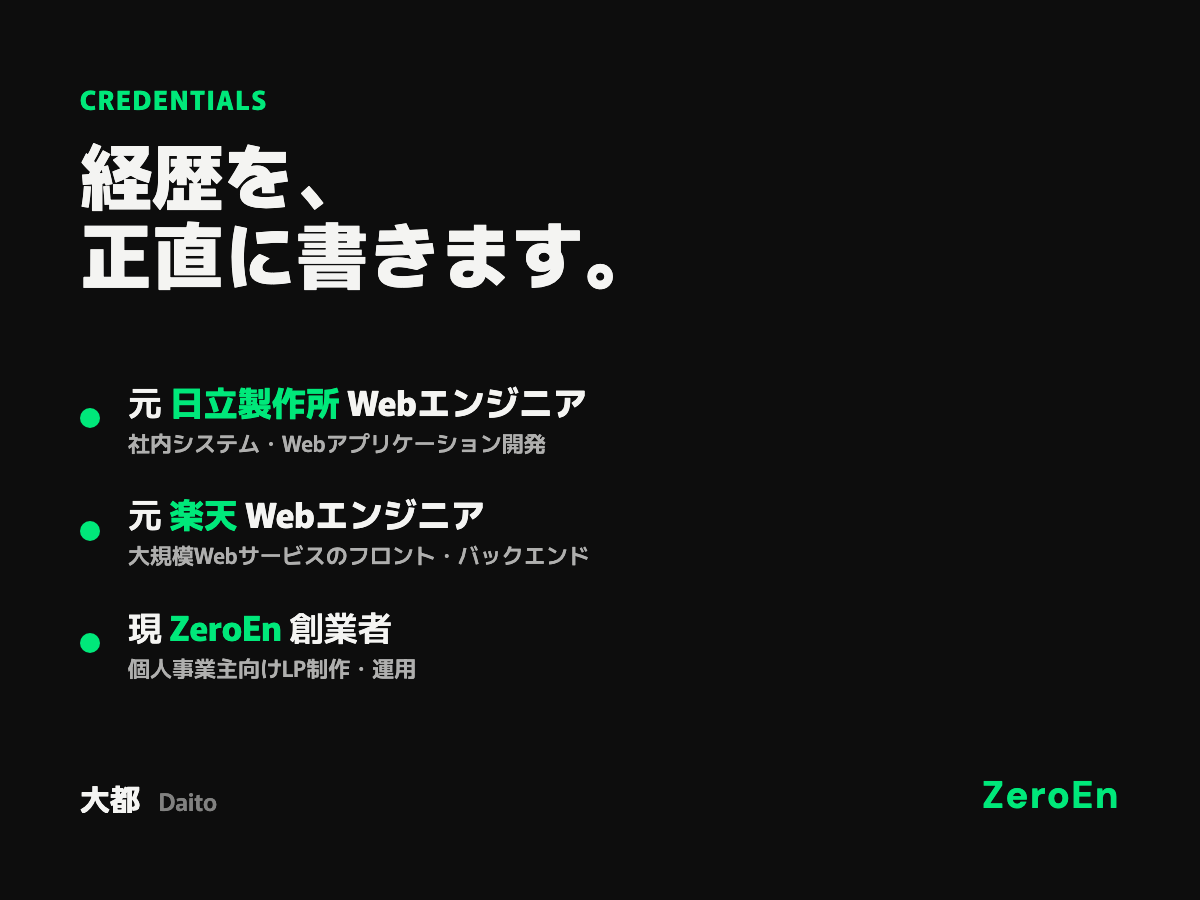
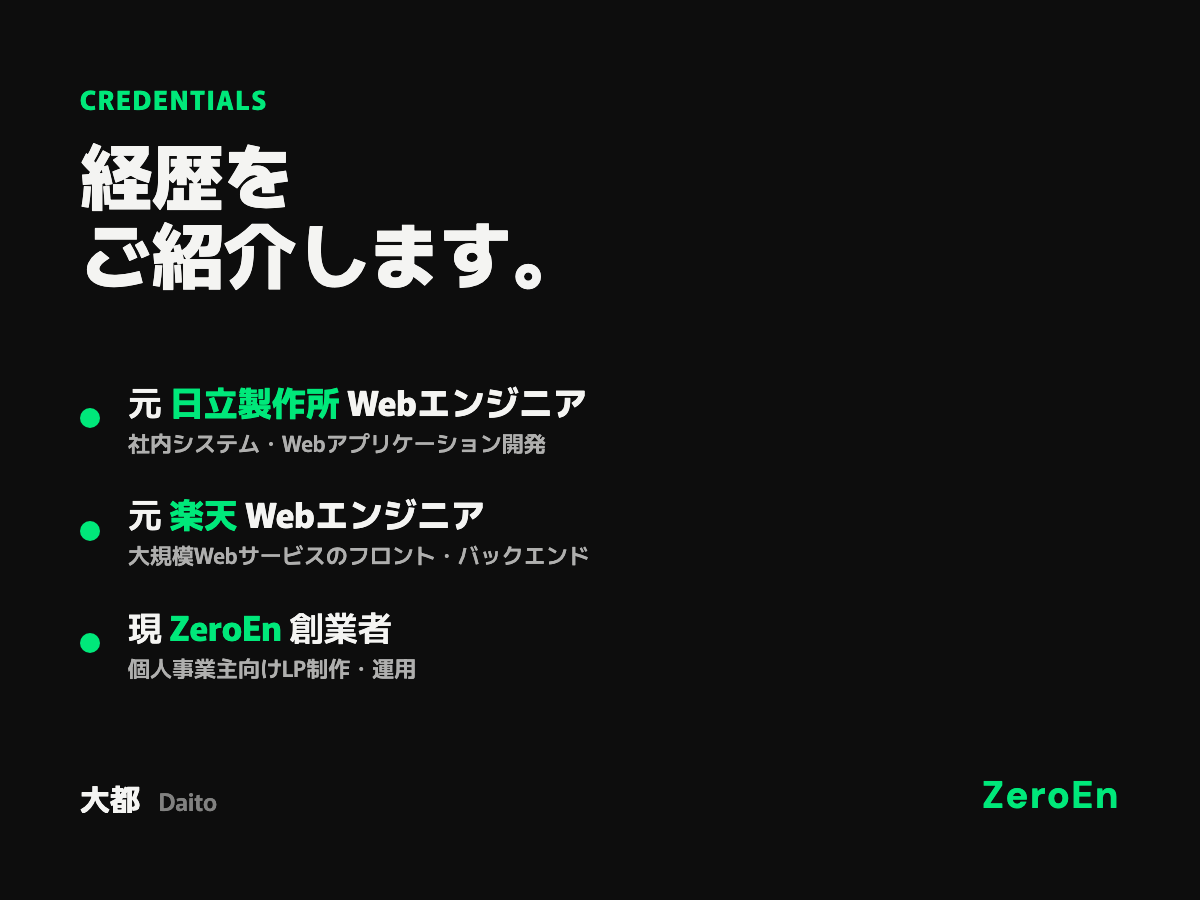
fix(marketing): soften image headlines — remove imperative/aggressive phrasing
Images 2,4,5,7,8 revised per mktg-copy review.

Changed region(s): [[0.0617, 0.1867, 0.5242, 0.3422]]

diff --git a/HQ/marketing/campaigns/2026-04-first-5/assets/listing-image-4-scope.html b/HQ/marketing/campaigns/2026-04-first-5/assets/listing-image-4-scope.html
@@ -24,8 +24,8 @@
 </style></head>
 <body>
   <div>
-    <div class="eyebrow">SCOPE — LOCKED AT KICKOFF</div>
-    <div class="h1">スコープを<br>はっきり書きます。</div>
+    <div class="eyebrow">SCOPE — WHAT'S INCLUDED</div>
+    <div class="h1">対応範囲に<br>ついて。</div>
   </div>
   <div class="grid">
     <div class="card">

diff --git a/HQ/marketing/campaigns/2026-04-first-5/assets/listing-image-8-zeroen.html b/HQ/marketing/campaigns/2026-04-first-5/assets/listing-image-8-zeroen.html
@@ -26,7 +26,7 @@
 <body>
   <div>
     <div class="eyebrow">PORTFOLIO — ZEROEN.DEV</div>
-    <div class="h1">自分のサイトも、<br>これです。</div>
+    <div class="h1">このサイト自体が<br>制作例です。</div>
   </div>
   <div class="browser">
     <div class="browser-bar">

diff --git a/HQ/marketing/campaigns/2026-04-first-5/assets/listing-image-5-portfolio.html b/HQ/marketing/campaigns/2026-04-first-5/assets/listing-image-5-portfolio.html
@@ -29,7 +29,7 @@
 <body>
   <div>
     <div class="eyebrow">PORTFOLIO</div>
-    <div class="h1">実物を見て、<br>判断してください。</div>
+    <div class="h1">実際の制作物を<br>ご覧ください。</div>
   </div>
   <div class="browser">
     <div class="browser-bar">

diff --git a/HQ/marketing/campaigns/2026-04-first-5/assets/listing-image-2-credentials.html b/HQ/marketing/campaigns/2026-04-first-5/assets/listing-image-2-credentials.html
@@ -23,7 +23,7 @@
 <body>
   <div>
     <div class="eyebrow">CREDENTIALS</div>
-    <div class="h1">経歴を、<br>正直に書きます。</div>
+    <div class="h1">経歴を<br>ご紹介します。</div>
   </div>
   <div class="timeline">
     <div class="row"><div class="dot"></div>

diff --git a/HQ/marketing/campaigns/2026-04-first-5/assets/listing-image-7-webmori.html b/HQ/marketing/campaigns/2026-04-first-5/assets/listing-image-7-webmori.html
@@ -26,7 +26,7 @@
 <body>
   <div>
     <div class="eyebrow">PORTFOLIO — WEBMORI.JP</div>
-    <div class="h1">実績を、<br>見てください。</div>
+    <div class="h1">実績の<br>ご紹介。</div>
   </div>
   <div class="browser">
     <div class="browser-bar">
